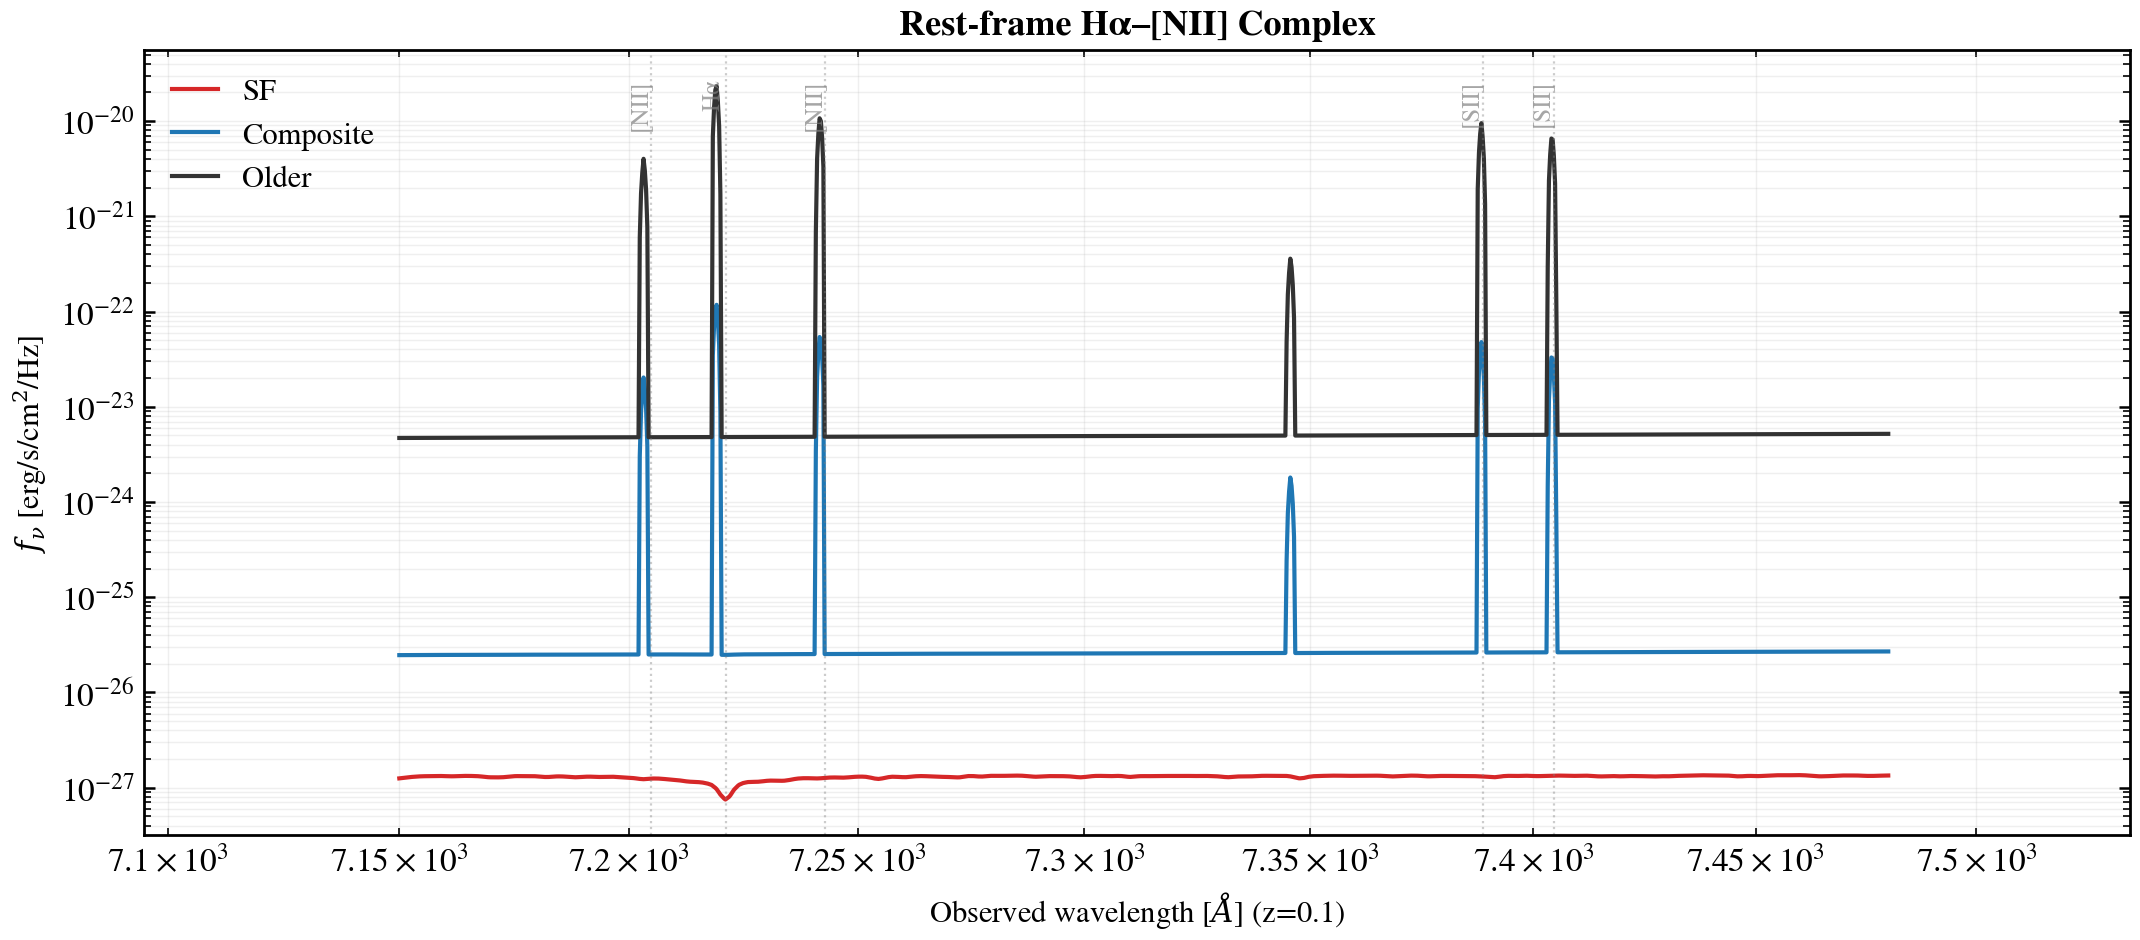
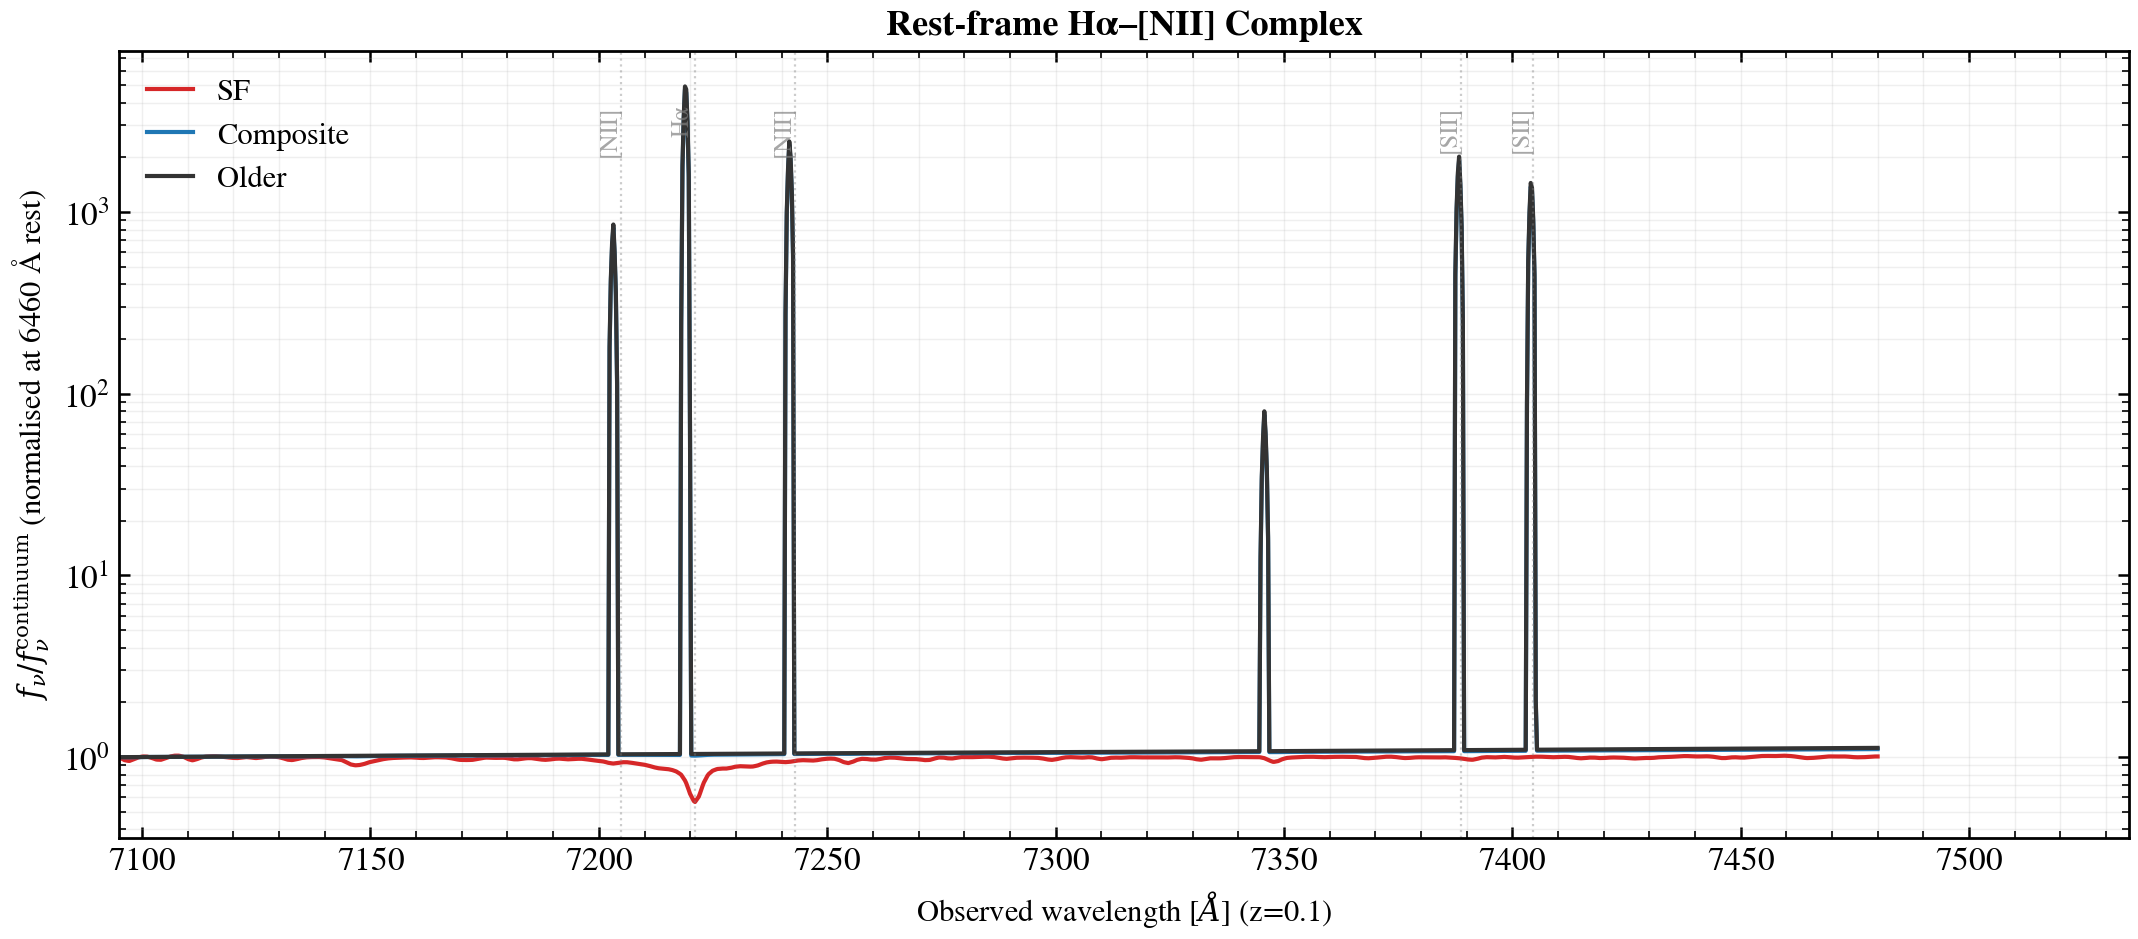
fix(notebooks): tighten nb05/06 corner filtering and nb08 line contrast
nb05 + nb06 corner plots: filter result.samples to chains with
nonzero std before laying out the corner grid. Some inference
backends emit fixed parameters as constant chains, which produce
empty rows/columns and obscure the actual posterior structure.

nb08 line spectrum: switch from absolute fnu to continuum-normalised
fnu (median over a 6420-6480 A rest-frame line-free window). The
three demo galaxies span 4+ dex in stellar mass, so the absolute
amplitudes were unreadable on a single panel; the pedagogical signal
is the line/continuum *contrast*, which now reads cleanly with all
three traces sharing the same continuum baseline at 1.0. Also
extended wave_rest from [6500, 6800] to [6400, 6800] so the
continuum window is in-grid.

diff --git a/notebooks/08_emission_lines.py b/notebooks/08_emission_lines.py
@@ -370,7 +370,7 @@ print("\nSaved BPT diagram to notebooks/figures/08_bpt_diagram.png")
 
 # %%
 # Predict spectra in the red optical (rest-frame)
-wave_rest = np.linspace(6500, 6800, 1200)  # rest-frame Å
+wave_rest = np.linspace(6400, 6800, 1600)  # rest-frame Å (6400-6480 is line-free)
 
 params_dict = {"SF": params_sf, "Composite": params_comp, "Older": params_old}
 spec_dict = {}
@@ -396,18 +396,23 @@ colors_dict = {
     "Older": COLORS.get("data", "C2"),
 }
 
+# Normalise each spectrum by its line-free continuum (median of 6440-6480 Å
+# rest-frame, blueward of [NII]+Hα). The three galaxies have very
+# different total stellar masses, so absolute fluxes span 4+ dex; the
+# pedagogical comparison is line/continuum *contrast*, not amplitude.
 for galaxy_type in ["SF", "Composite", "Older"]:
     sed = spec_dict[galaxy_type]
     z = float(params_dict[galaxy_type]["redshift"])
     wave_obs_plot = wave_rest * (1.0 + z)
-
-    # Mask to avoid autoscale trap
-    valid = (sed > 0) & np.isfinite(sed)
+    cont_mask = (wave_rest >= 6420) & (wave_rest <= 6480)
+    cont_pix = sed[cont_mask & np.isfinite(sed) & (sed > 0)]
+    cont_level = float(np.median(cont_pix)) if cont_pix.size else 1.0
+    sed_norm = sed / max(cont_level, 1e-40)
+    valid = np.isfinite(sed_norm) & (sed_norm > 0)
     if valid.sum() > 0:
-        ymed = np.median(sed[valid])
-        ax.loglog(
+        ax.semilogy(
             wave_obs_plot[valid],
-            sed[valid],
+            sed_norm[valid],
             lw=1.5,
             label=galaxy_type,
             color=colors_dict[galaxy_type],
@@ -432,7 +437,7 @@ for lam, label in lines_annotate:
 
 ax.set_xlim(6450 * (1 + z_ref_display), 6850 * (1 + z_ref_display))
 ax.set_xlabel(f"Observed wavelength [$\\AA$] (z={z_ref_display:.1f})", fontsize=11)
-ax.set_ylabel(r"$f_\nu$ [erg/s/cm$^2$/Hz]", fontsize=11)
+ax.set_ylabel(r"$f_\nu / f_\nu^{\rm continuum}$ (normalised at 6460 Å rest)", fontsize=11)
 ax.set_title(r"Rest-frame Hα–[NII] Complex", fontsize=13, fontweight="bold")
 ax.legend(loc="upper left", frameon=False, fontsize=11)
 ax.grid(True, alpha=0.2, which="both")

diff --git a/notebooks/06_fitting_spectroscopy.py b/notebooks/06_fitting_spectroscopy.py
@@ -416,7 +416,12 @@ plt.show()
 # Lightweight manual corner. ``plot_corner_comparison`` (corner.py KDE)
 # OOMs on macOS jetsam at ~24 GB peak when stacked on a 1000-pixel
 # NUTS graph. Histograms are bounded RSS and adequate for tutorial.
-free_p = list(result_spec.samples.keys())
+# Filter to actually-varying parameters: result.samples may include
+# fixed-as-constant chains (std == 0) which create empty corner cells.
+free_p = [
+    k for k in result_spec.samples.keys()
+    if float(np.std(np.asarray(result_spec.samples[k]))) > 1e-12
+]
 n_free_p = len(free_p)
 fig, axes = plt.subplots(n_free_p, n_free_p, figsize=(2 * n_free_p, 2 * n_free_p))
 for i, ki in enumerate(free_p):

diff --git a/notebooks/05_fitting_photometry.py b/notebooks/05_fitting_photometry.py
@@ -441,7 +441,11 @@ plt.close()
 # ``result.plot_corner`` uses corner.py KDE which OOMs on macOS jetsam
 # at 600 samples × 8 params on top of resident HMC graph. Histograms
 # are bounded peak RSS and visually equivalent for tutorial-grade plots.
-free = list(samples_for_credible.keys())
+# Filter to actually-varying params (std > 0); fixed chains add empty cells.
+free = [
+    k for k in samples_for_credible.keys()
+    if float(np.std(np.asarray(samples_for_credible[k]))) > 1e-12
+]
 n_free = len(free)
 fig, axes = plt.subplots(n_free, n_free, figsize=(2 * n_free, 2 * n_free))
 for i, ki in enumerate(free):
